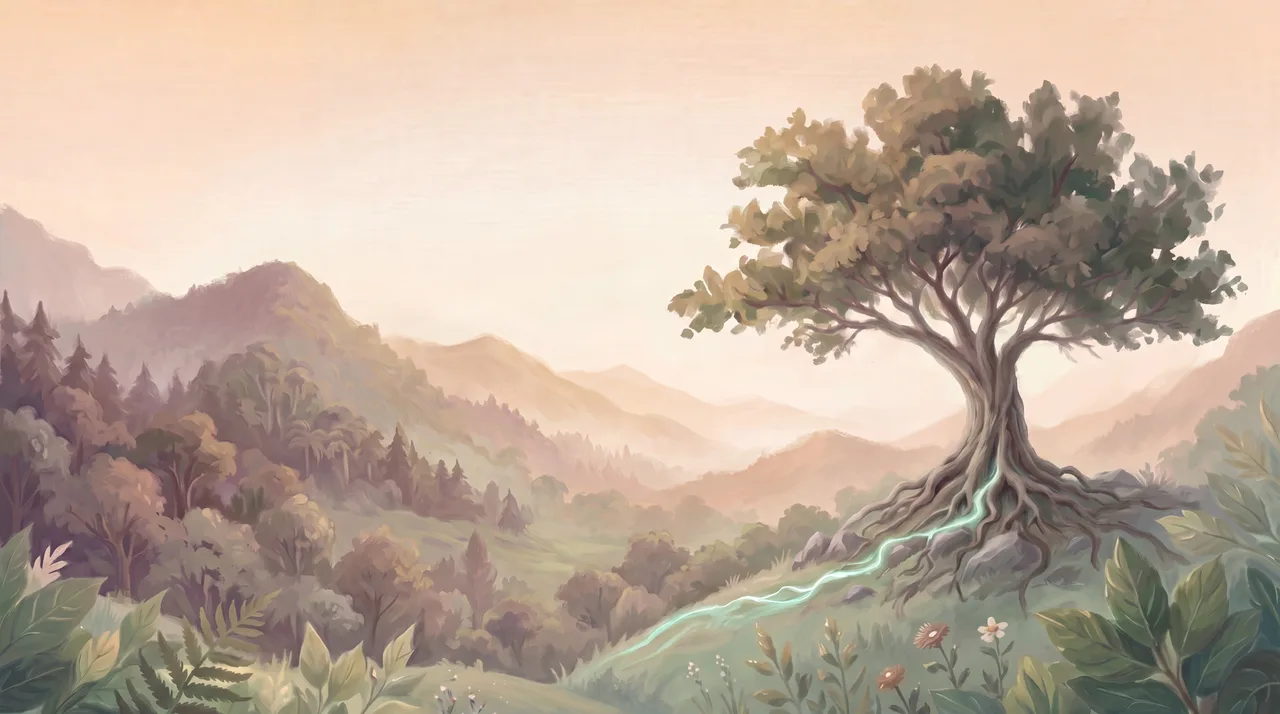
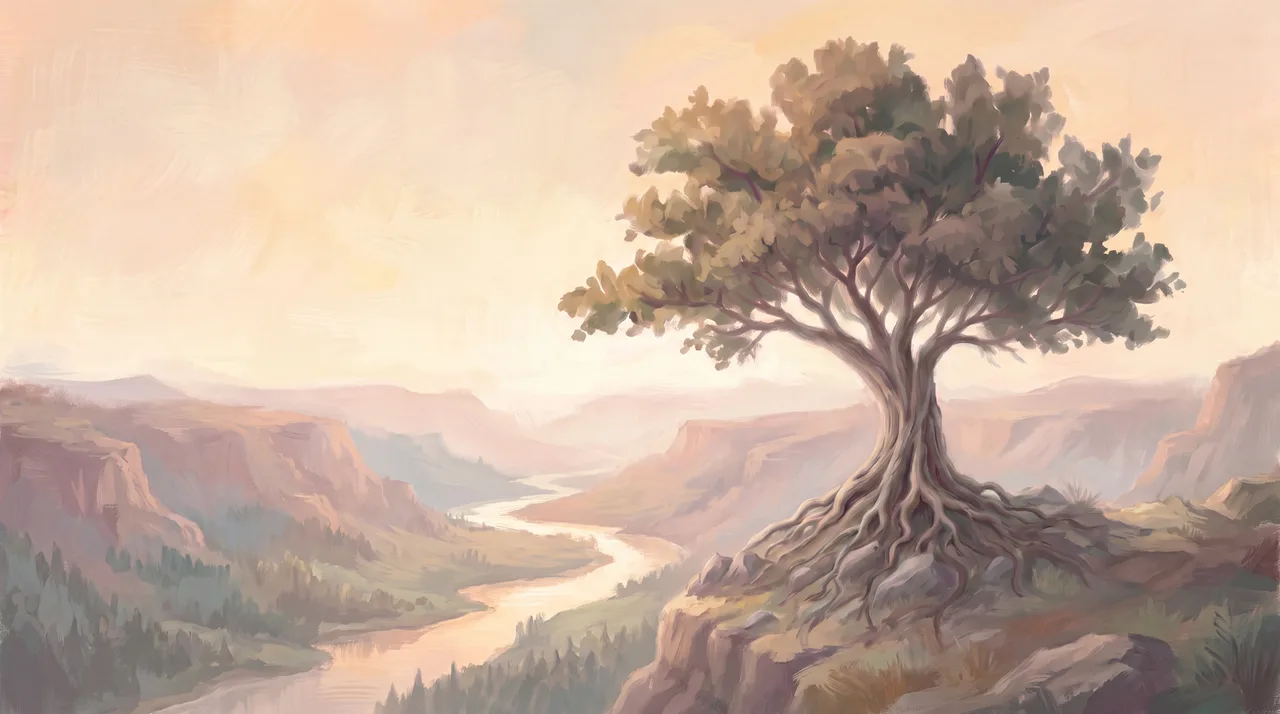
Home hero: museum-quality world-tree vista (t3), framed for left-hand copy
Swap the desktop hero vista for the painterly 'tree-as-hero' plate — the
ancient world-tree commanding a high promontory with an epic canyon/river
valley receding behind it under a warm luminous sky. Nudge object-position
to 61% 44% so the whole tree stays in frame with sky headroom and the
copy sits cleanly in the open left-hand space.

diff --git a/src/app/v2.css b/src/app/v2.css
@@ -4389,7 +4389,7 @@ h2 em,
   width: 100%;
   height: 100%;
   object-fit: cover;
-  object-position: 64% 47%; /* keep the tree right-of-centre and trim excess sky */
+  object-position: 61% 44%; /* tree right-of-centre; reveal more valley + sky headroom for the copy */
   transform: scale(1.02);
   transform-origin: 67% 32%; /* zoom toward the lifted canopy */
   will-change: transform, opacity;